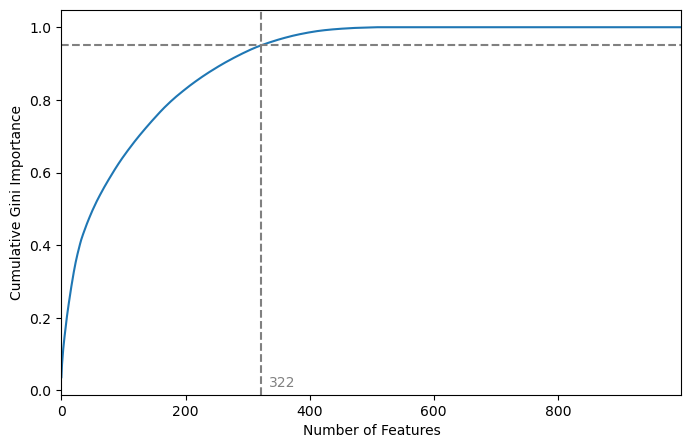
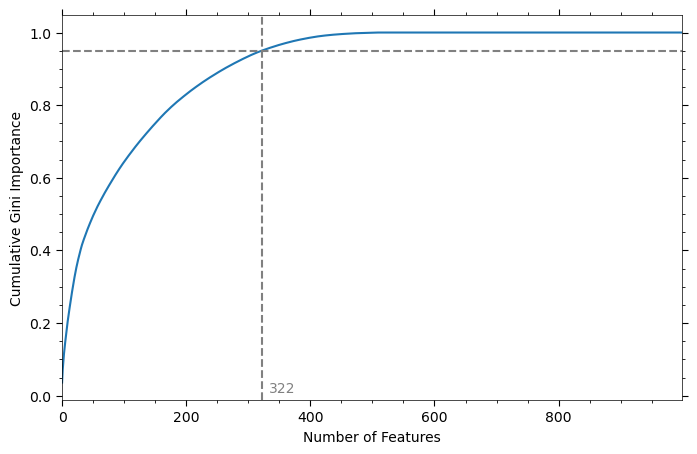
Done all of q4 except for plotting the similar features that are in the importance.

diff --git a/src/q4/scripts/_q4f.py b/src/q4/scripts/_q4f.py
@@ -1,0 +1,141 @@
+import os
+import pandas as pd
+from sklearn.pipeline import Pipeline
+from sklearn.preprocessing import StandardScaler
+from sklearn.linear_model import LogisticRegression
+from src.utils import (
+    cross_validate_report,
+    format_contingency_table,
+    create_table,
+    save_fig,
+    plot_feature_importance,
+)
+import numpy as np
+import matplotlib.pyplot as plt
+
+
+def compute_most_important_features_logit(X: np.ndarray, y: np.ndarray):
+    X = X.copy()
+    y = y.copy()
+
+    pipeline = Pipeline(
+        [
+            ('scaler', StandardScaler()),
+            (
+                'logistic_regression',
+                LogisticRegression(multi_class='multinomial', random_state=3438),
+            ),
+        ]
+    )
+
+    pipeline.fit(X, y)
+
+    feature_importance = (
+        pd.DataFrame(pipeline['logistic_regression'].coef_.T ** 2)
+        .mean(axis=1)
+        .reset_index()
+        .sort_values(0, ascending=False)
+        .reset_index(drop=True)
+        .rename(columns={'index': 'feature', 0: 'importance'})
+    )
+
+    # Normalise the feature importance
+    feature_importance['importance'] = (
+        feature_importance['importance'] / feature_importance['importance'].sum()
+    )
+
+    feature_importance['feature'] = [
+        f'Fea{feature + 1}' for feature in feature_importance['feature']
+    ]
+
+    feature_importance['cumulative_importance'] = feature_importance[
+        'importance'
+    ].cumsum()
+
+    most_importance_features = feature_importance[
+        feature_importance['cumulative_importance'].round(4) <= 0.95
+    ]
+
+    return feature_importance, most_importance_features
+
+
+def q4f():
+    cwd = os.path.dirname(os.path.realpath(__file__))
+
+    data = pd.read_csv(
+        f'{cwd}/../outputs/ADS_baselineDataset_preprocessed.csv', index_col=0
+    )
+
+    data, classifications = data[data.columns[:-1]], data['type']
+
+    X = data.copy().values
+    y = classifications.copy().values
+
+    # First, we'll try with all features
+    pipeline = Pipeline(
+        [
+            ('scaler', StandardScaler()),
+            (
+                'logistic_regression',
+                LogisticRegression(multi_class='multinomial', random_state=3438),
+            ),
+        ]
+    )
+
+    report, cmatrix, test_set_classification_error = cross_validate_report(
+        X, y, pipeline, n_splits=5
+    )
+
+    tbl = format_contingency_table(
+        np.round(cmatrix.values, 2),
+        columns=['1', '2', '3', 'Total (actual)'],
+        index=['1', '2', '3', 'Total (predictions)'],
+        figsize=(5, 2),
+    )
+
+    tbl[4, 3].set_facecolor('white')
+    tbl[4, 3].set_text_props(color='white')
+
+    save_fig(__file__, 'q4f_confusion_matrix_all_feats.png')
+
+    tbl = create_table(report.round(2), figsize=(5, 2))
+
+    tbl[4, 3].set_text_props(color='white')
+    tbl[5, 3].set_text_props(color='white')
+
+    save_fig(__file__, 'q4f_classification_report_all_feats.png')
+
+    # Now compute the most important features]
+    (
+        feature_importance,
+        most_importance_features,
+    ) = compute_most_important_features_logit(X, y)
+
+    plot_feature_importance(feature_importance, most_importance_features)
+    plt.ylabel('Cum. Mean Squared Logit Importance (MSLI)')
+    save_fig(__file__, 'q4f_logit_importance.png')
+
+    X_subset = data[most_importance_features['feature']].copy().values
+
+    report, cmatrix, test_set_classification_error = cross_validate_report(
+        X_subset, y, pipeline, n_splits=5
+    )
+
+    tbl = format_contingency_table(
+        np.round(cmatrix.values, 2),
+        columns=['1', '2', '3', 'Total (actual)'],
+        index=['1', '2', '3', 'Total (predictions)'],
+        figsize=(5, 2),
+    )
+
+    tbl[4, 3].set_facecolor('white')
+    tbl[4, 3].set_text_props(color='white')
+
+    save_fig(__file__, 'q4f_confusion_matrix_reduced_feats.png')
+
+    tbl = create_table(report.round(2), figsize=(5, 2))
+
+    tbl[4, 3].set_text_props(color='white')
+    tbl[5, 3].set_text_props(color='white')
+
+    save_fig(__file__, 'q4f_classification_report_reduced_feats.png')

diff --git a/src/q4/scripts/_q4e.py b/src/q4/scripts/_q4e.py
@@ -8,37 +8,11 @@ from src.utils import (
     cross_validate_report,
     format_contingency_table,
     create_table,
+    plot_feature_importance,
 )
 
 
-def plot_gini_importance(
-    feature_importance: pd.DataFrame, most_importance_features: pd.DataFrame
-):
-    fig, ax = plt.subplots(figsize=(8, 5))
-
-    plt.plot(feature_importance['cumulative_importance'])
-
-    plt.xlabel('Number of Features')
-    plt.ylabel('Cumulative Gini Importance')
-
-    num_importance_features = len(most_importance_features)
-
-    plt.axhline(y=0.95, color='grey', linestyle='--')
-    plt.axvline(x=num_importance_features, color='grey', linestyle='--')
-
-    plt.text(
-        num_importance_features + 12,
-        0.01,
-        f'{num_importance_features}',
-        fontsize=10,
-        color='grey',
-    )
-    ax.autoscale(enable=True, tight=True, axis='x')
-
-    save_fig(__file__, 'q4e_gini_importance.png')
-
-
-def compute_most_important_features(X: np.ndarray, y: np.ndarray):
+def compute_most_important_features_random_forest(X: np.ndarray, y: np.ndarray):
     X = X.copy()
     y = y.copy()
 
@@ -80,8 +54,14 @@ def q4e():
     X = data.copy().values
     y = classifications.copy().values
 
-    feature_importance, most_importance_features = compute_most_important_features(X, y)
-    plot_gini_importance(feature_importance, most_importance_features)
+    (
+        feature_importance,
+        most_importance_features,
+    ) = compute_most_important_features_random_forest(X, y)
+
+    plot_feature_importance(feature_importance, most_importance_features)
+    plt.ylabel('Cumulative Gini Importance')
+    save_fig(__file__, 'q4e_gini_importance.png')
 
     X_subset = data[most_importance_features['feature']].copy().values
 

diff --git a/src/utils/_plotting.py b/src/utils/_plotting.py
@@ -7,6 +7,33 @@ from matplotlib.axes import Axes
 from matplotlib.ticker import AutoMinorLocator
 
 
+def plot_feature_importance(
+    feature_importance: pd.DataFrame, most_importance_features: pd.DataFrame
+):
+    fig, ax = plt.subplots(figsize=(8, 5))
+
+    plt.plot(feature_importance['cumulative_importance'])
+
+    plt.xlabel('Number of Features')
+
+    num_importance_features = len(most_importance_features)
+
+    plt.axhline(y=0.95, color='grey', linestyle='--')
+    plt.axvline(x=num_importance_features, color='grey', linestyle='--')
+
+    plt.text(
+        num_importance_features + 12,
+        0.01,
+        f'{num_importance_features}',
+        fontsize=10,
+        color='grey',
+    )
+
+    format_axes(ax)
+
+    ax.autoscale(enable=True, tight=True, axis='x')
+
+
 def format_axes(ax: Axes, **kwargs):
     if ax.get_legend():
         ax.legend(

diff --git a/src/q4/__main__.py b/src/q4/__main__.py
@@ -1,7 +1,8 @@
-from .scripts import q4b, q4c, q4d, q4e
+from .scripts import q4b, q4c, q4d, q4e, q4f
 
 if __name__ == '__main__':
     # q4b()
-    q4c()
+    # q4c()
     # q4d()
-    q4e()
+    # q4e()
+    q4f()

diff --git a/src/q4/scripts/__init__.py b/src/q4/scripts/__init__.py
@@ -1,4 +1,5 @@
 from ._q4b import q4b
 from ._q4c import q4c
 from ._q4d import q4d
-from ._q4e import q4e, compute_most_important_features
+from ._q4e import q4e
+from ._q4f import q4f
